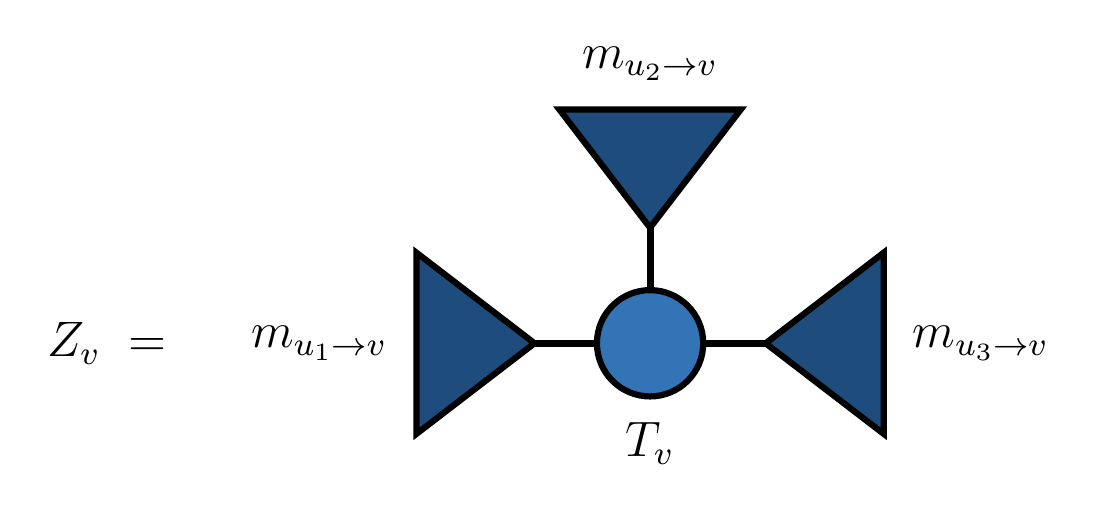
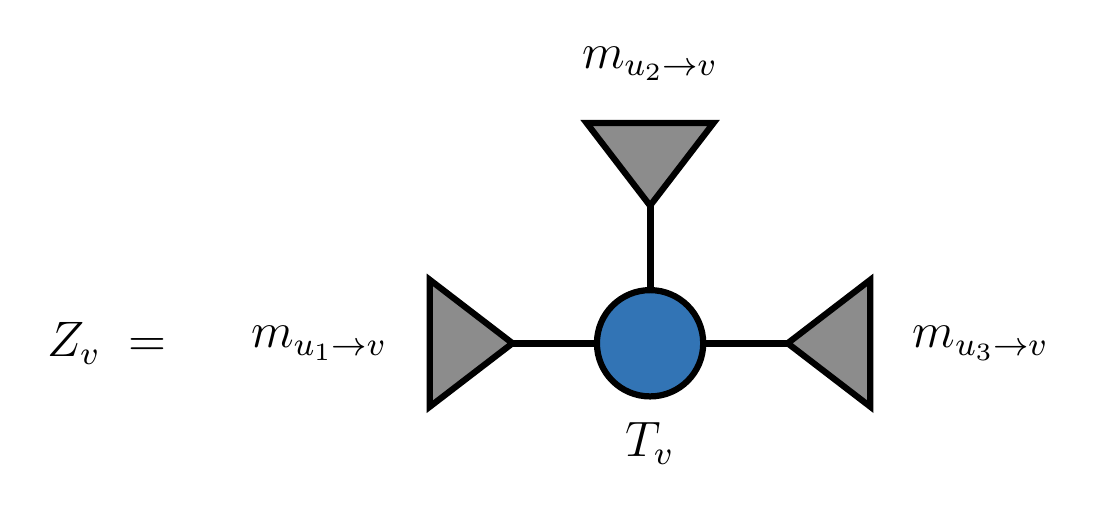
Make the message triangles grey and smaller
Grey sets the messages apart from the blue tensors, and the triangles were
larger than they needed to be to be read.

Changed region(s): [[0.4964, 0.1875, 0.6825, 0.4375], [0.3723, 0.4688, 0.4964, 0.8438], [0.6825, 0.5, 0.8066, 0.8438]]

diff --git a/Tutorials/HandsOn4/resources/diagrams/common.tex b/Tutorials/HandsOn4/resources/diagrams/common.tex
@@ -2,7 +2,7 @@
 \usepackage{amsmath,amssymb}
 \usetikzlibrary{positioning,calc,arrows.meta,decorations.pathreplacing,shapes.geometric}
 \definecolor{tensorblue}{HTML}{3274B5}
-\definecolor{envblue}{HTML}{1E4C7C}
+\definecolor{msggrey}{HTML}{8C8C8C}
 \definecolor{opteal}{HTML}{357A76}
 \tikzset{
   leg/.style={line width=1.7pt},
@@ -12,13 +12,13 @@
   copy/.style={circle,draw,line width=1.5pt,fill=black,minimum size=3.6mm,inner sep=0},
   op/.style={rectangle,draw,line width=1.5pt,fill=opteal,minimum size=5.6mm,inner sep=0},
   % messages are triangles pointing in the direction the message travels
-  msg/.style={isosceles triangle,isosceles triangle apex angle=75,draw,line width=1.5pt,fill=envblue,inner sep=0,
-              minimum width=8mm,minimum height=10mm,shape border rotate=0},
+  msg/.style={isosceles triangle,isosceles triangle apex angle=75,draw,line width=1.5pt,fill=msggrey,inner sep=0,
+              minimum width=5.5mm,minimum height=7mm,shape border rotate=0},
   msgl/.style={msg,shape border rotate=180},
   msgu/.style={msg,shape border rotate=90},
   msgd/.style={msg,shape border rotate=270},
   % a matrix message: a slightly larger triangle, its two legs fan out from it
-  msgmat/.style={msg,minimum width=10mm,minimum height=13mm},
+  msgmat/.style={msg,minimum width=7mm,minimum height=9mm},
   lab/.style={font=\large},
   code/.style={font=\ttfamily\large},
   arrow/.style={-{Latex[length=3mm]},line width=1.2pt},
